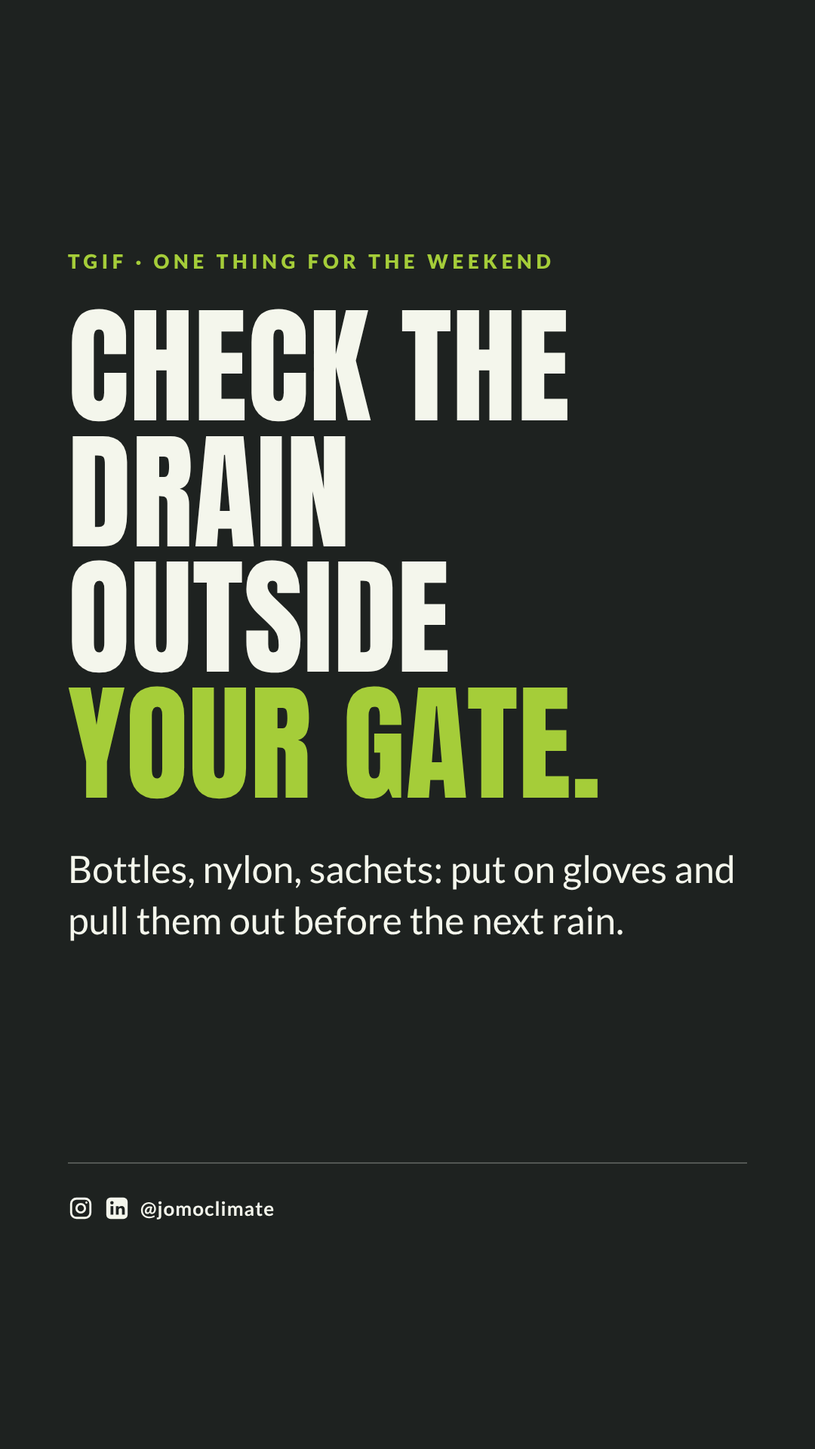
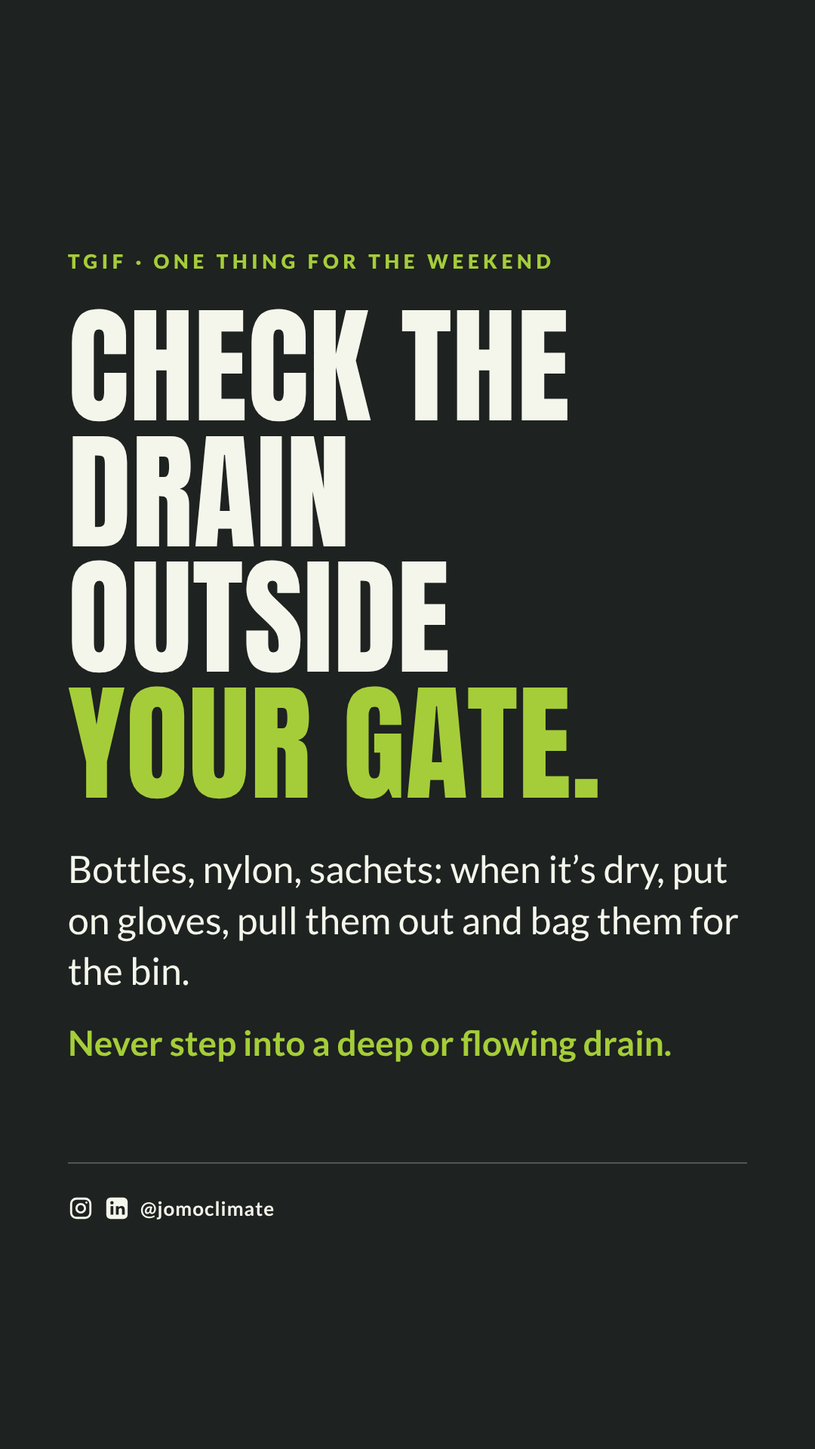
draft: week of 2026-10-26 policy review fixes (in review)
World Cities Day slide 3 swapped to a people-free stock photo and slides
1-2 reworded; TGIF story carries the drain safety line; SOURCES.csv
corrected for flood-bicycle-goods-01.jpg (face visible).

Claude-Session: https://claude.ai/code/session_01F6NcUsFQ3PsVvfZiAxD4Cd

diff --git a/tools/week_1026.py b/tools/week_1026.py
@@ -3,6 +3,7 @@ Reuses the helpers and several layouts from week_1016.py with the new YCEF close
 from week_1016 import pg, st, photo, grad, stamp, item, tick, ONI, LEKKI, BIKE, URL, LOGO_L, LOGO_D
 from build import *
 
+PH_RIVER = "file:///home/user/jomo-social/assets/photos/web/plastic-waste-riverbank-01.jpg"
 CLOSE = "Tue 3 Nov"
 CLOSE_FULL = "Tue 3 Nov, 11:59&nbsp;PM&nbsp;WAT"
 ZAMBIA = "12:59 AM Wed 4 Nov in Zambia"
@@ -140,7 +141,7 @@ write("w29-oniwaya-02", pg(f"""
  <div class="tape" style="z-index:4;background:{LIME};color:{INK};left:590px;top:200px;font-size:26px;padding:12px 28px;transform:rotate(3deg)">After</div>
 """, "ink", 2, T))
 write("w29-oniwaya-03", pg(f"""
- <div class="label">What it took</div>
+ <div class="label">What clean-ups take</div>
  <div class="brico" style="font-size:104px;margin-top:36px">Volunteers, gloves and rakes. <span style="color:{OFF}">That's it.</span></div>
  {photo(ONI % '11', 90, 700, 900, 500, "50% 40%", "border-radius:28px")}
 """, "lime", 3, T))
@@ -198,7 +199,8 @@ write("w30-tgif-story-9x16", pg(f"""
  <style>.foot{{bottom:260px}}</style><div style="height:240px"></div>
  <div class="label">TGIF &middot; one thing for the weekend</div>
  <div class="h" style="font-size:170px;margin-top:40px">Check the<br>drain outside<br><span class="acc">your gate.</span></div>
- <div class="body" style="margin-top:50px;font-size:50px">Bottles, nylon, sachets: put on gloves and pull them out before the next rain.</div>
+ <div class="body" style="margin-top:50px;font-size:50px">Bottles, nylon, sachets: when it&rsquo;s dry, put on gloves, pull them out and bag them for the bin.</div>
+ <div class="body" style="margin-top:30px;font-size:46px;font-weight:700;color:{LIME}">Never step into a deep or flowing drain.</div>
 """, "ink", 0, 0, 1080, 1920))
 
 # ===== 11. Sat 31: World Cities Day carousel (safe homes), 4:5 =====
@@ -208,18 +210,18 @@ write("w31-cities-01", pg(f"""
  <div class="chip" style="left:90px;top:90px">Stock photo &middot; Lekki, Lagos</div>
  <div class="tape" style="background:{LIME};color:{INK};right:90px;top:170px;transform:rotate(4deg);font-size:24px">World Cities Day &middot; 31 Oct</div>
  <div class="c" style="position:absolute;left:90px;right:90px;bottom:160px">
-  <div class="h" style="font-size:134px">{st('Just rain.', th=11)}<br><span class="acc">A safe home<br>is climate<br>protection.</span></div></div>
+  <div class="h" style="font-size:150px">{st('Just rain.', th=11)}<br><span class="acc">Water needs<br>a way out.</span></div></div>
 """, "ink", 1, T))
 write("w31-cities-02", pg(f"""
  <div class="label">Where it lands</div>
  <div class="h" style="font-size:136px;margin-top:70px">Heavy rain is<br>a climate risk.</div>
- <div class="h" style="font-size:136px;margin-top:50px;color:{OFF}">A weak home<br>or a blocked<br>drain is where<br>it lands.</div>
+ <div class="h" style="font-size:136px;margin-top:50px;color:{OFF}">A blocked<br>drain is where<br>it lands.</div>
  {sprout(300, color1=OFF, color2=LEAF, extra="right:-50px;top:70px;transform:rotate(16deg);opacity:.9")}
 """, "lime", 2, T))
 write("w31-cities-03", pg(f"""
- <div style="position:absolute;z-index:0;left:0;top:0;width:1080px;height:1350px;background:{INK}"></div>{photo(BIKE, 0, 330, 1080, 1020, "50% 70%")}{grad('top', 40, 1, 330, 1020)}{grad('bottom', 14, .85)}
+ <div style="position:absolute;z-index:0;left:0;top:0;width:1080px;height:1350px;background:{INK}"></div>{photo(PH_RIVER, 0, 330, 1080, 1020, "50% 50%")}{grad('top', 40, 1, 330, 1020)}{grad('bottom', 14, .85)}
  <div class="chip" style="left:90px;bottom:160px">Stock photo</div>
- <div class="c"><div class="label">Water needs a way out</div>
+ <div class="c"><div class="label">What blocks it</div>
   <div class="h" style="font-size:124px;margin-top:40px">Floods hit where<br>water has<br><span class="acc">nowhere to go.</span></div></div>
 """, "ink", 3, T))
 write("w31-cities-04", pg(f"""

diff --git a/content/posts/2026-10-31-world-cities-day/captions.md b/content/posts/2026-10-31-world-cities-day/captions.md
@@ -1,16 +1,16 @@
 # Captions: World Cities Day
 Role: Copywriter (hook by Creative Director, visuals by Designer)
 
-Big idea (Creative Director): the 2026 theme is about adequate housing. JOMO's way in is the street: a safe home is climate protection, and the drain outside is part of it. Reuses last week's unposted "Safe Homes" carousel and X post, reframed for World Cities Day. No evictions, demolitions, officials, policies or blame (Trend Scout flag).
+Big idea (Creative Director): the 2026 theme is about adequate housing. JOMO's way in is the street outside the home: water needs a way out, and the drain is where it starts. (After the policy review, the carousel no longer labels any real homes as safe or weak.) Reuses last week's unposted "Safe Homes" carousel and X post, reframed for World Cities Day. No evictions, demolitions, officials, policies or blame (Trend Scout flag).
 
 ### Sat 2026-10-31, 18:00 WAT · Instagram + Facebook · Partners and ecosystem (awareness day)
-Hook: ~~Just rain.~~ A safe home is climate protection.
-Visual: 5-slide 4:5 carousel, `visuals/w31-cities-01.png` to `w31-cities-05.png`. Slides 1 and 3 are labelled stock photos (Pexels), not JOMO activity.
+Hook: ~~Just rain.~~ Water needs a way out.
+Visual: 5-slide 4:5 carousel, `visuals/w31-cities-01.png` to `w31-cities-05.png`. Slides 1 and 3 are labelled stock photos (Pexels), not JOMO activity. Slide 3 is now a people-free photo (plastic-waste-riverbank-01.jpg, location not stated) after the policy review.
 
 Caption — Instagram:
-Just rain? A safe home is climate protection. 🏠🌱
+Just rain? Water needs a way out. 🌧🌱
 
-It's World Cities Day. Heavy rain is a climate risk, and a weak home or a blocked drain is where it lands.
+It's World Cities Day. Heavy rain is a climate risk, and a blocked drain is where it lands.
 
 What a household or street can do:
 - Clear the drain outside your gate.
@@ -24,9 +24,9 @@ Slides 1 and 3 are stock photos, not JOMO activity. Slide 1 shows a flooded stre
 #WorldCitiesDay #ClimateAction #Lagos #Lusaka
 
 Caption — Facebook:
-Just rain? A safe home is climate protection. 🏠🌱
+Just rain? Water needs a way out. 🌧🌱
 
-Today is World Cities Day. Heavy rain is a climate risk, and it becomes a problem where a home or a street can't cope: a weak structure, or a blocked drain with nowhere for water to go.
+Today is World Cities Day. Heavy rain is a climate risk, and it becomes a flood where water has nowhere to go: a blocked drain, a gutter full of waste.
 
 What a household or neighbourhood can do:
 - Clear the drain outside your gate.
@@ -40,9 +40,9 @@ The photos on slides 1 and 3 are stock photos, not JOMO activity. The first show
 #WorldCitiesDay #ClimateAction
 
 Alt text:
-- Slide 1: Stock photo. A flooded street in Lekki, Lagos: a man carrying a bag on his head wades through floodwater past old buildings and painted walls under a cloudy sky. Labels: "Stock photo · Lekki, Lagos" and a tape "World Cities Day · 31 Oct". Overlay: "Just rain." crossed out, then "A safe home is climate protection."
-- Slide 2: Lime slide: "Where it lands. Heavy rain is a climate risk. A weak home or a blocked drain is where it lands."
-- Slide 3: Stock photo. A man pushes a bicycle loaded with large sacks through shallow floodwater, two small figures wading behind. Label "Stock photo". Text: "Water needs a way out. Floods hit where water has nowhere to go."
+- Slide 1: Stock photo. A flooded street in Lekki, Lagos: a man carrying a bag on his head wades through floodwater past old buildings and painted walls under a cloudy sky. Labels: "Stock photo · Lekki, Lagos" and a tape "World Cities Day · 31 Oct". Overlay: "Just rain." crossed out, then "Water needs a way out."
+- Slide 2: Lime slide: "Where it lands. Heavy rain is a climate risk. A blocked drain is where it lands."
+- Slide 3: Stock photo, aerial view of a riverbank covered in plastic waste, no people. Label "Stock photo". Text: "What blocks it. Floods hit where water has nowhere to go."
 - Slide 4: Lime slide: "On your street: three things you can do. Clear the drain outside your gate. Report what you can't fix. Notice where water collects."
 - Slide 5: Dark slide: "World Cities Day. Liveable cities are built one street at a time. Where does water collect on yours?" White JOMO logo.
 
@@ -76,9 +76,11 @@ Visual: `visuals/w31-cities-x-16x9.png` (Pexels stock photo, labelled)
 Caption — X:
 When it rains, where does the water go on your street? 🌧
 
-It's #WorldCitiesDay. Liveable cities are built one street at a time, starting with the drain outside your gate.
+It's World Cities Day. Liveable cities are built one street at a time, starting with the drain outside your gate.
 
 (Photo: stock, Lekki, Lagos)
+
+#WorldCitiesDay
 
 Alt text: Stock photo of a flooded street in Lekki, Lagos, with a man wading through water past old buildings. Labels "Stock photo · Lekki, Lagos" and "World Cities Day · 31 Oct". Text: "When it rains, where does the water go on your street?"
 

diff --git a/content/posts/2026-10-31-world-cities-day/review.md b/content/posts/2026-10-31-world-cities-day/review.md
@@ -9,3 +9,26 @@
 | LinkedIn photo: JOMO volunteers, from our archive (oniwaya-02) | INDEX.csv; consent log | Verified |
 | "JOMO volunteers have done this on Lagos streets since 2020" | The brand guide supports "youth-led since 2020" and clean-ups as past work; Oniwaya's location isn't on file | **Fixed:** now "JOMO has been youth-led since 2020, and community and market clean-ups like these are part of our work" |
 | Why YCEF | Brand guide (operator's wording) | **Fixed:** now uses the operator's words |
+
+## Policy and Safety Review (Policy and Safety Reviewer)
+
+All 13 checks run. All 7 visuals viewed at full size.
+
+| Slot | Verdict | Notes |
+|---|---|---|
+| Sat 18:00 · Instagram + Facebook carousel | BLOCK | Slide 3 (flood-bicycle-goods-01.jpg) shows a man's face clearly in profile as he struggles to push sacks through floodwater. That breaks check 6 (an identifiable person in poor conditions), and it contradicts SOURCES.csv, which records "seen from behind, face not visible". Pexels gives no model release, and two small background figures may be children. Separately, slide 1 sets "A safe home" (and slide 2 "A weak home") over run-down houses on a named Lekki street, on a housing-themed day. In Lagos, where waterfront demolitions are a live political issue, that could be read as labelling real residents' homes unsafe (check 4, borderline). |
+| Sat 11:00 · LinkedIn | PASS | Check 4: it quotes the UN theme as a fact and reframes "regeneration" as small community action. No evictions, demolitions, officials or policies. Consent: oniwaya-02 is in the log, seen from behind, labelled "From our archive". Check 3: "What's one small change that made your street more liveable?" is a genuine question. No emoji. 2 hashtags. Approved YCEF link. |
+| Sat 12:00 · X | FIX | Brand rule: hashtag mid-sentence. **Edit applied:** "It's #WorldCitiesDay. Liveable cities…" became "It's World Cities Day. Liveable cities…", with "#WorldCitiesDay" moved to its own last line. About 220 characters (🌧 counted as 2). The stock photo is labelled on the image and in the caption. Check 3: "where does the water go on your street?" is a genuine question. The wading man is shown small, with his face shadowed by his raised arm. |
+
+Operator items (decide on the BLOCK):
+- Suggested fix for slide 3: the Designer swaps the photo for a people-free stock image from SOURCES.csv (for example plastic-waste-riverbank-01.jpg or erosion-muddy-water-01.jpg, location not stated, so no place name), keeping the "Stock photo" label. Also correct the flood-bicycle-goods-01.jpg row in SOURCES.csv: the face is visible.
+- Slide 1: either keep the Lekki photo and soften the headline to "~~Just rain.~~ Water needs a way out." (and slide 2 to "Heavy rain is a climate risk. A blocked drain is where it lands."), or keep the headline and swap to a photo with no identifiable homes or people. Either way, update the alt text and captions to match.
+- The wading man in the Lekki photo (slide 1 and X) is recorded as "not identifiable". At full size his face is mostly hidden. Take a look yourself before approving the X post.
+- Comment replies to "Where does water collect on yours?" may name streets or blame officials or agencies. Flag political or complaint replies to the operator and don't reply.
+- Check 5: don't boost without a decision. A housing-themed post may count as a social-issues ad.
+
+## Designer follow-up (after the policy review)
+
+- Slide 3: the photo is now `plastic-waste-riverbank-01.jpg` (Pexels, no people, location not stated), labelled "Stock photo", with the heading "What blocks it". `assets/photos/web/SOURCES.csv` is corrected: the bicycle photo shows a face.
+- Slide 1: the headline is now "~~Just rain.~~ Water needs a way out." Slide 2 is now "Heavy rain is a climate risk. A blocked drain is where it lands." No slide calls any real home safe or weak. Captions, alt text and the calendar hook match.
+- This resolves the BLOCK. The carousel goes to the operator as FIX (applied). The wading man in the Lekki photo (slide 1 and X) is small with his face shadowed; the operator should look before approving.

diff --git a/content/posts/2026-10-26-ycef-extension/review.md b/content/posts/2026-10-26-ycef-extension/review.md
@@ -10,3 +10,20 @@
 | Why JOMO built YCEF (LinkedIn) | Brand guide (operator's words, 2026-10-24) | Verified |
 | Photos oniwaya-02, -11, -08 "from our archive" | `content/consent-log.csv`, `assets/photos/events/INDEX.csv` | Verified |
 | Apply link | Operator, 2026-10-23 | Responds; the form is rendered by JavaScript, so the new date couldn't be seen. **Operator to confirm the page shows Tue 3 Nov** |
+
+## Policy and Safety Review (Policy and Safety Reviewer)
+
+All 13 checks run on every slot. All 8 visuals viewed at full size.
+
+| Slot | Verdict | Notes |
+|---|---|---|
+| Mon 18:00 · Instagram carousel | PASS | Consent: oniwaya-02, -08 and -11 are all in the consent log, labelled "from our archive". No funding promise (check 1). 5 hashtags. @jomoclimate on every slide. The leaves on slide 5 sit in empty space and don't touch any text. People are seen from behind or with faces hidden. |
+| Mon 18:00 · Facebook carousel | FIX | Check 3 (engagement bait): "Know someone who keeps saying "someone should fix this"? This is for them." is an implied tag or share ask. **Edit applied:** changed it to "If you keep saying "someone should fix this", this is for you." |
+| Mon 18:00 · Instagram story | PASS | Nothing in the top or bottom 250px: the label starts at about 300px and the handle bar sits at about 1600px. Countdown and Link stickers are native features, not bait. The link is the approved YCEF link. |
+| Mon 11:00 · LinkedIn | PASS | No emoji. The first two lines stand alone. 2 hashtags. "Who in your network should apply?" is a genuine question with a clear call to action, not a tag ask. |
+| Mon 13:00 · X | PASS | About 211 characters (link counted as 23, emoji as 2). 1 hashtag. "8 days left" holds from Mon 13:00 to Tue 3 Nov 23:59. |
+
+Operator items:
+- Carried over from the fact-check: confirm the apply page shows Tue 3 Nov before this goes out (check 12).
+- Slide 3 has a small background figure in pink who may be a child. The face isn't visible and the figure isn't identifiable, so it doesn't block. Look at it at full size and decide whether to crop it out.
+- Check 5: if you plan to boost any of these, say so first. YCEF promotion is low risk, but a boost needs its own check.

diff --git a/content/posts/2026-10-28-source-please/review.md b/content/posts/2026-10-28-source-please/review.md
@@ -8,3 +8,17 @@
 | About 31,400 extra heat-related deaths projected in Nigeria, Sept 2026 to Feb 2027, vs an average year; Climate Impact Lab, University of Chicago; method not yet in a peer-reviewed journal | https://impactlab.org/research/451000-at-risk/ ; `2026-10-24-super-el-nino/review.md` | Verified. **Fixed:** slide 5 now says "About", "heat-related… vs an average year" and adds the peer-review tick; the Facebook caption adds the peer-review caveat |
 | "Last week we shared this figure" | El Niño calendar rows | True only once the 24 and 25 Oct posts go out. **Set those rows to Posted before Wed** |
 | #MILWeek in use | — | Check live use before posting |
+
+## Policy and Safety Review (Policy and Safety Reviewer)
+
+All 13 checks run. All 6 slides viewed at full size.
+
+| Slot | Verdict | Notes |
+|---|---|---|
+| Wed 18:00 · Instagram carousel | PASS | Check 6: no outlet, person or post is named or shamed. Check 7: the 31,400 figure carries "about", "projection" and the peer-review caveat on slide 5. Check 3: "Swipe" and "Keep this for the next viral climate stat" are navigation and a save prompt, not tag, comment or share bait. "Can't check it? Don't share it yet" is the opposite of a share ask. 4 hashtags. The leaves on slides 1 and 6 don't touch any text. Text and graphics only, so there are no consent or copyright issues. |
+| Wed 18:00 · Facebook carousel | PASS | The Climate Impact Lab link is the cited source page. The peer-review caveat is included. |
+
+Operator items:
+- "Last week we shared this figure" (slide 5 and both captions) is only true if the 24 and 25 Oct El Niño posts actually went out. If they didn't, hold this post or change "Last week we shared" to "Here's a figure going round".
+- Check #MILWeek's live use before posting. If it's being used for something unrelated, drop it (IG would still have 3 hashtags).
+- Design, optional: on slide 1, "stat." sits alone on the last line of the subhead, and on slide 3, "print." does the same. These are body lines, not headlines, so neither blocks.

diff --git a/content/posts/2026-10-29-oniwaya-before-after/review.md b/content/posts/2026-10-29-oniwaya-before-after/review.md
@@ -8,3 +8,20 @@
 | "Volunteers with gloves. That's it." | INDEX.csv shows volunteers with rakes as well as gloves | **Fixed:** now "Volunteers, gloves and rakes" on slide 3 and "gloves and rakes" in both captions |
 | Close Tue 3 Nov, 11:59 PM WAT | Brand guide | Verified. **Fixed:** slide 4 now gives the Zambia time too |
 | YCEF eligibility, sustenance engineering, no funding guarantee | Brand guide | Verified |
+
+## Policy and Safety Review (Policy and Safety Reviewer)
+
+All 13 checks run. All 4 slides viewed at full size.
+
+| Slot | Verdict | Notes |
+|---|---|---|
+| Thu 18:00 · Instagram carousel | FIX | Check 1 (overreach): "A few volunteers" is an unsourced headcount. **Edit applied:** "A few volunteers with gloves and rakes cleaned up this drain." became "Volunteers with gloves and rakes cleaned up this drain." Everything else passes. Check 6: the drain is the subject, and the passers-by on slides 1 and 2 are small and unidentifiable. Consent: oniwaya-01 and -11 are in the log and labelled "from our archive". Check 3: "Which drain on your street needs this?" is a genuine question tied to a real next step (YCEF). 5 hashtags. Link in bio. |
+| Thu 18:00 · Facebook carousel | PASS | The link is correct. The Zambia time is given. No funding promise. |
+
+Operator items:
+- Slide 3 is headed "What it took" but uses oniwaya-11, which looks like a different, muddier drain from the one on slides 1 and 2. Nothing claims it's the same drain, but the heading implies it. If it isn't the same drain, it would be safer for the Designer to change the slide 3 label to "What clean-ups take". This doesn't block.
+- The "before" and "after" words printed in the source photo on slide 2 duplicate the tape labels. That's cosmetic only and not a watermark.
+
+## Designer follow-up (after the policy review)
+
+- Slide 3's label is now "What clean-ups take", because the photo may show a different drain from slides 1 and 2. The alt text matches.

diff --git a/content/posts/2026-10-30-tgif-drain-story/review.md b/content/posts/2026-10-30-tgif-drain-story/review.md
@@ -3,3 +3,19 @@
 ## Fact-check (Fact-checker)
 
 Advice only (check the drain; put on gloves; pull out bottles, nylon and sachets). No factual claims to source. Verified.
+
+## Policy and Safety Review (Policy and Safety Reviewer)
+
+All 13 checks run. Story viewed at full size.
+
+| Slot | Verdict | Notes |
+|---|---|---|
+| Fri 18:00 · Instagram + Facebook stories | FIX (slide change needed, not yet applied) | Check 13 (safety): the story tells people to reach into a drain during rainy season with no limits, and the Fri post falls during the late rains (see 27 Oct). Lagos drains can be deep, fast-flowing after rain, and hold sharp waste and sewage. The current text also gives no instruction on what to do with the waste, and pulled-out rubbish left beside the drain washes straight back in. **Edit applied to captions.md:** a required "Safety line" instruction and an alt-text note. **Slide change needed (Designer):** replace the body text with "Bottles, nylon, sachets: when it's dry, put on gloves, pull them out and bag them for the bin. Never step into a deep or flowing drain." Fallback: add the second sentence as an in-app text sticker. Check 3: the Poll sticker ("Yes" / "Not yet") is a native story feature asking a real question, not vote bait, so it's fine. Layout: the label starts at about 345px and the handle bar sits at about 1600px. The poll fits in the gap at about 1260 to 1520px, clear of the bottom 250px. |
+
+Operator items:
+- Don't post until the slide (or sticker) carries the safety line.
+- If both the safety sticker and the poll have to fit in the gap, check at full size that neither one overlaps the handle bar.
+
+## Designer follow-up (after the policy review)
+
+- The slide now reads "Bottles, nylon, sachets: when it's dry, put on gloves, pull them out and bag them for the bin." with "Never step into a deep or flowing drain." in lime underneath. The alt text matches. FIX applied.

diff --git a/content/posts/2026-10-29-cop31-explainer/review.md b/content/posts/2026-10-29-cop31-explainer/review.md
@@ -9,3 +9,17 @@
 | COP = Conference of the Parties; meets yearly; 31st session | https://unfccc.int/process/bodies/supreme-bodies/conference-of-the-parties-cop | Verified |
 | Parties = "the countries that signed the convention" | Same page: Parties ratified or acceded; the EU is also a Party | **Fixed:** "have joined" on the slide and on X; LinkedIn now says "the countries (and the European Union) that are Parties to the UNFCCC" |
 | Lagos and Lusaka prepare for heat and floods | Framing | OK |
+
+## Policy and Safety Review (Policy and Safety Reviewer)
+
+All 13 checks run. All 6 visuals viewed at full size.
+
+| Slot | Verdict | Notes |
+|---|---|---|
+| Thu 12:00 · LinkedIn PDF carousel | PASS | Check 4: process only. It names the venue (Antalya, Türkiye) as a fact and says nothing about how the host was chosen, the presidency arrangement, any leader or any country's stance. Check 3: "What would you most like explained about COP31?" is a genuine question tied to JOMO's stated plan to explain the outcome. No emoji. The first two lines stand alone. 2 hashtags. The leaves don't touch any text. |
+| Fri 12:00 · X thread (4 posts) | PASS | Each post is well under 280 characters. 1 hashtag on the thread. Same apolitical framing. "What do you want explained?" is a genuine question. |
+
+Operator items:
+- Comment replies: COP threads can draw political replies (host country, leaders, finance blame). Per the checklist, flag those replies to the operator and don't reply.
+- Check 5: don't boost this without a decision first. Meta may treat a boosted COP/policy post as a social-issues ad that needs authorisation and a "Paid for by" disclaimer.
+- Keep the follow-up promise: "We'll explain what gets decided" commits JOMO to a post during or after 9 to 20 Nov.

diff --git a/content/posts/2026-10-29-oniwaya-before-after/captions.md b/content/posts/2026-10-29-oniwaya-before-after/captions.md
@@ -37,7 +37,7 @@ Apply: https://jomoclimatechange.org/events?apply=ycef
 Alt text:
 - Slide 1: Cropped "before" photo of a roadside drain beside a concrete wall, full of plastic bags, bottles and weeds, tilted like a print with a "Before" tape. Text: "One drain · Oniwaya. Blocked." crossed out, then "Cleaned up."
 - Slide 2: Side-by-side photos of the same roadside drain beside a long wall under trees. Left, labelled "Before": the drain is packed with rubbish and weeds. Right, labelled "After": the drain is mostly clear, with a little water and some scattered litter. Label: "Oniwaya · From our archive".
-- Slide 3: Lime slide. "What it took. Volunteers, gloves and rakes. That's it." Photo of a volunteer in a yellow-green JOMO vest and red gloves, face hidden, pulling rubbish from a muddy drain.
+- Slide 3: Lime slide. "What clean-ups take. Volunteers, gloves and rakes. That's it." Photo of a volunteer in a yellow-green JOMO vest and red gloves, face hidden, pulling rubbish from a muddy drain.
 - Slide 4: Dark slide. "Your turn. Which drain on your street needs this? YCEF applications close Tue 3 Nov, 11:59 PM WAT (12:59 AM Wed 4 Nov in Zambia)." The link https://jomoclimatechange.org/events?apply=ycef, the white JOMO logo and @jomoclimate.
 
 Sources: `assets/photos/events/INDEX.csv` (oniwaya-cleanup-01.jpg is one before-and-after image of the same roadside drain, as supplied; -11 is a volunteer clearing a drain). Both are from the 2020 archive (file names dated 2020) and are presented as "from our archive", never as recent. The clean-up date isn't confirmed, so no date is printed. Consent: content/consent-log.csv; -11's age confirmed by the operator on 2026-10-23. YCEF facts: `references/brand-guide.md`. No funding promise.

diff --git a/content/posts/2026-10-27-rain-drain-x/review.md b/content/posts/2026-10-27-rain-drain-x/review.md
@@ -7,3 +7,15 @@
 | NiMet's 2026 seasonal forecast said Lagos's rainy season would end later than usual | https://nannews.ng/nimet-predicts-longer-than-normal-rainy-season-in-13-states/ (11 Feb 2026: "a delayed end of season is expected in Lagos…"); https://guardian.ng/news/lagos-12-other-states-to-experience-longer-rainfall-in-2026-nimet/ | Verified (secondary sources; the NiMet page wouldn't open) |
 | Photo oniwaya-cleanup-11.jpg, "from our archive" | Consent log; age confirmed by the operator on 2026-10-23 | Verified |
 | Oniwaya is in Lagos (implied only by the photo sitting next to the Lagos question) | Not in the repo; a web listing places Oniwaya in Agege, Lagos | Unverified; low risk because the post doesn't state it. **Operator to confirm** |
+
+## Policy and Safety Review (Policy and Safety Reviewer)
+
+All 13 checks run. Visual viewed at full size.
+
+| Slot | Verdict | Notes |
+|---|---|---|
+| Tue 14:00 · X | PASS | Check 4: NiMet is credited as an agency for a dated forecast, with no officials and no praise or blame. Check 7: "end later than usual" matches the sourced "delayed end of season", and the post claims no current flood. Check 3: "is the drain outside your gate clear?" is a prompt to act, not a reply ask. Consent: oniwaya-11 is in the log (age confirmed 2026-10-23), face hidden, labelled "From our archive". About 190 characters. 1 hashtag. @jomoclimate present. |
+
+Operator items:
+- Confirm Oniwaya is in Lagos. The graphic puts "Oniwaya clean-up" right next to "Still raining in Lagos?" (fact-checker flag).
+- The forecast rests on secondary sources (NAN and The Guardian) because the NiMet page didn't open. That's acceptable, but the claim is attributed to NiMet.

diff --git a/content/posts/2026-10-30-tgif-drain-story/captions.md b/content/posts/2026-10-30-tgif-drain-story/captions.md
@@ -6,7 +6,8 @@ Big idea (Creative Director): the smallest possible climate action, timed for th
 ### Fri 2026-10-30, 18:00 WAT · Instagram + Facebook stories · Youth and volunteer voices
 Hook: TGIF. Check the drain outside your gate.
 Visual: `visuals/w30-tgif-story-9x16.png`. In the app, add a **Poll** sticker below the text: "Is the drain outside your gate clear?" with the options "Yes" and "Not yet". Keep it out of the bottom 250px. If Facebook stories doesn't offer polls, post the image alone.
+Safety line (Policy and Safety Reviewer, required): now on the slide, "Never step into a deep or flowing drain." Place the poll below it, clear of the bottom 250px.
 
-Alt text: Dark story. "TGIF · one thing for the weekend. Check the drain outside your gate. Bottles, nylon, sachets: put on gloves and pull them out before the next rain."
+Alt text: Dark story. "TGIF · one thing for the weekend. Check the drain outside your gate. Bottles, nylon, sachets: when it's dry, put on gloves, pull them out and bag them for the bin. Never step into a deep or flowing drain."
 
-Sources: no facts or numbers; advice only. The story says to put on gloves first.
+Sources: no facts or numbers; advice only.

diff --git a/content/posts/2026-10-29-ycef-5-days-x/review.md b/content/posts/2026-10-29-ycef-5-days-x/review.md
@@ -6,3 +6,14 @@
 |---|---|---|
 | 5 days left (Thu 29 Oct to Tue 3 Nov); close time in WAT and Zambia time | Arithmetic; brand guide | Verified |
 | 3 weekends, 50 fellows, Nigeria and Zambia, 18+ | Brand guide | Verified |
+
+## Policy and Safety Review (Policy and Safety Reviewer)
+
+All 13 checks run. Visual viewed at full size.
+
+| Slot | Verdict | Notes |
+|---|---|---|
+| Thu 14:00 · X | PASS | About 225 characters (link counted as 23, emoji as 2). 1 hashtag. Approved YCEF link. Zambia time given. No funding promise. "5 days left" holds from Thu 14:00 to Tue 3 Nov 23:59. @jomoclimate present. The stamp sits clear of the text. |
+
+Operator items:
+- Same as Monday: confirm the apply page shows the Tue 3 Nov close.
